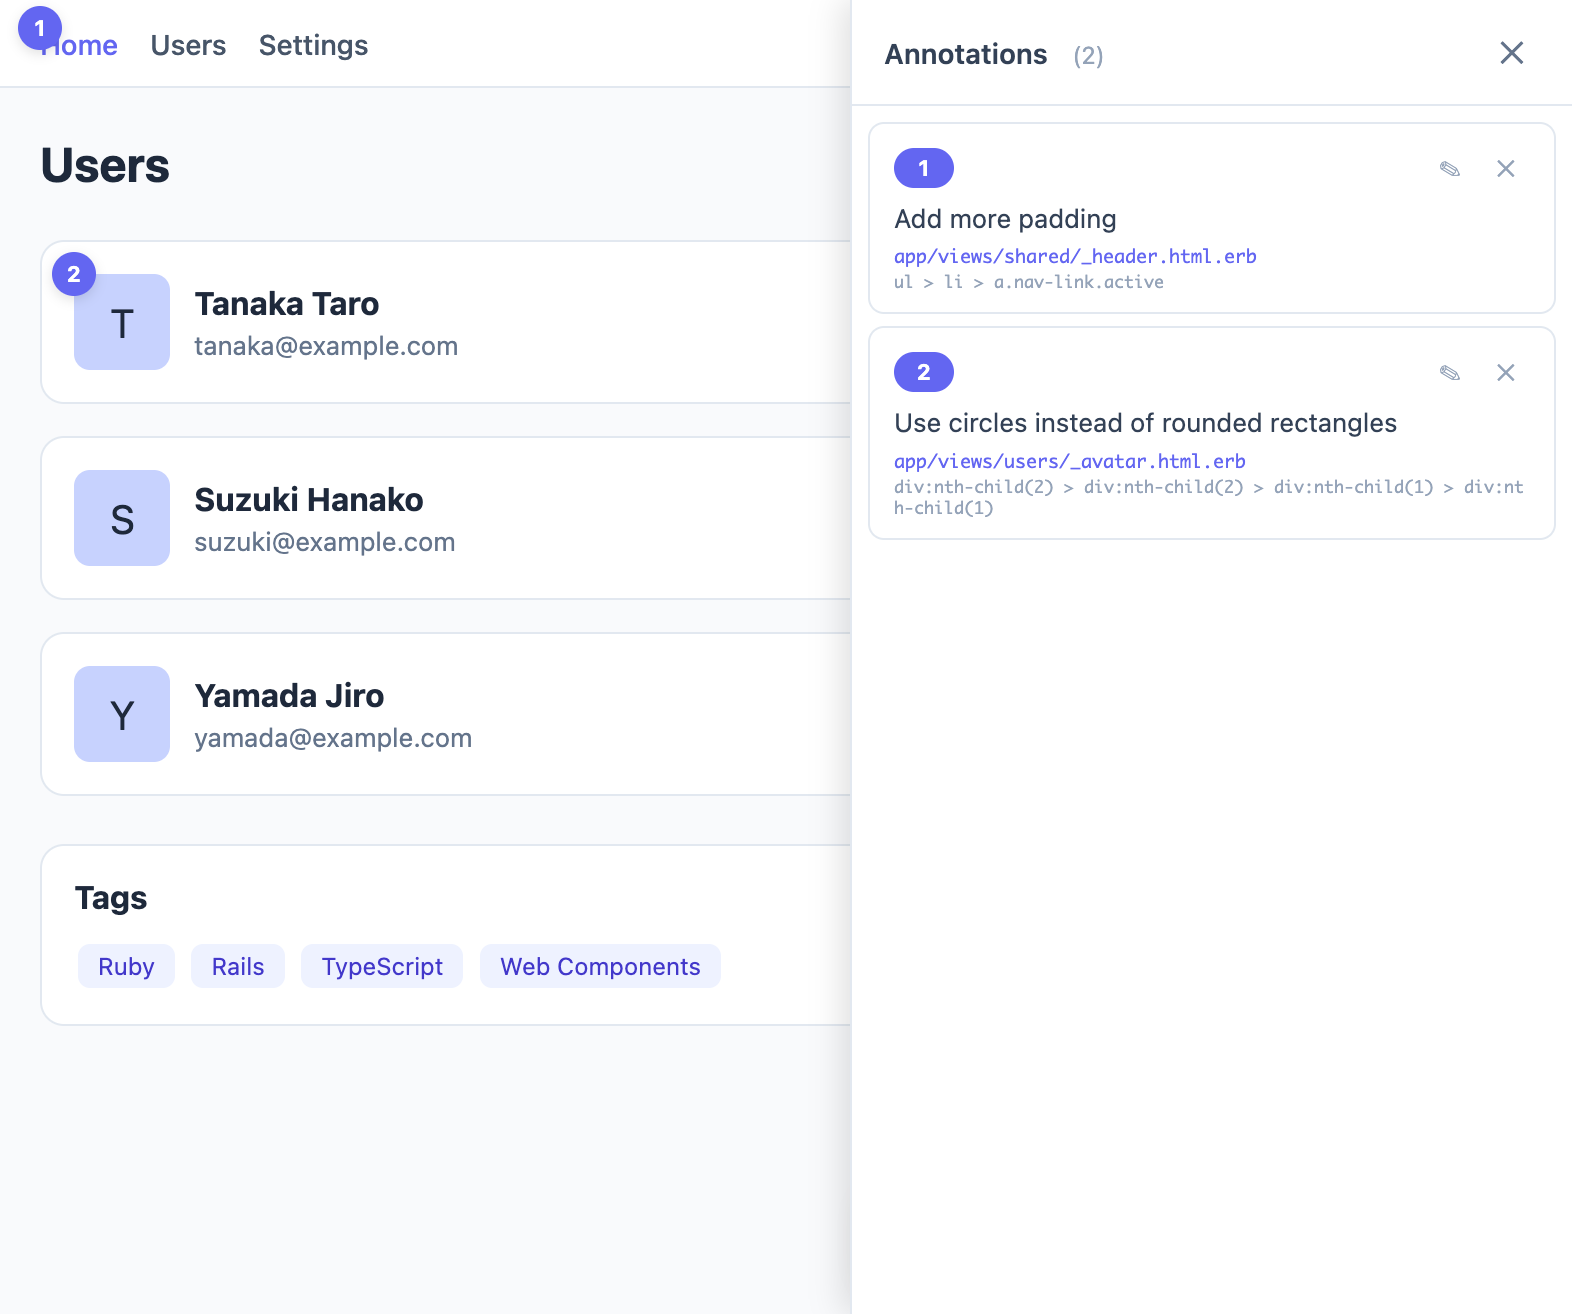
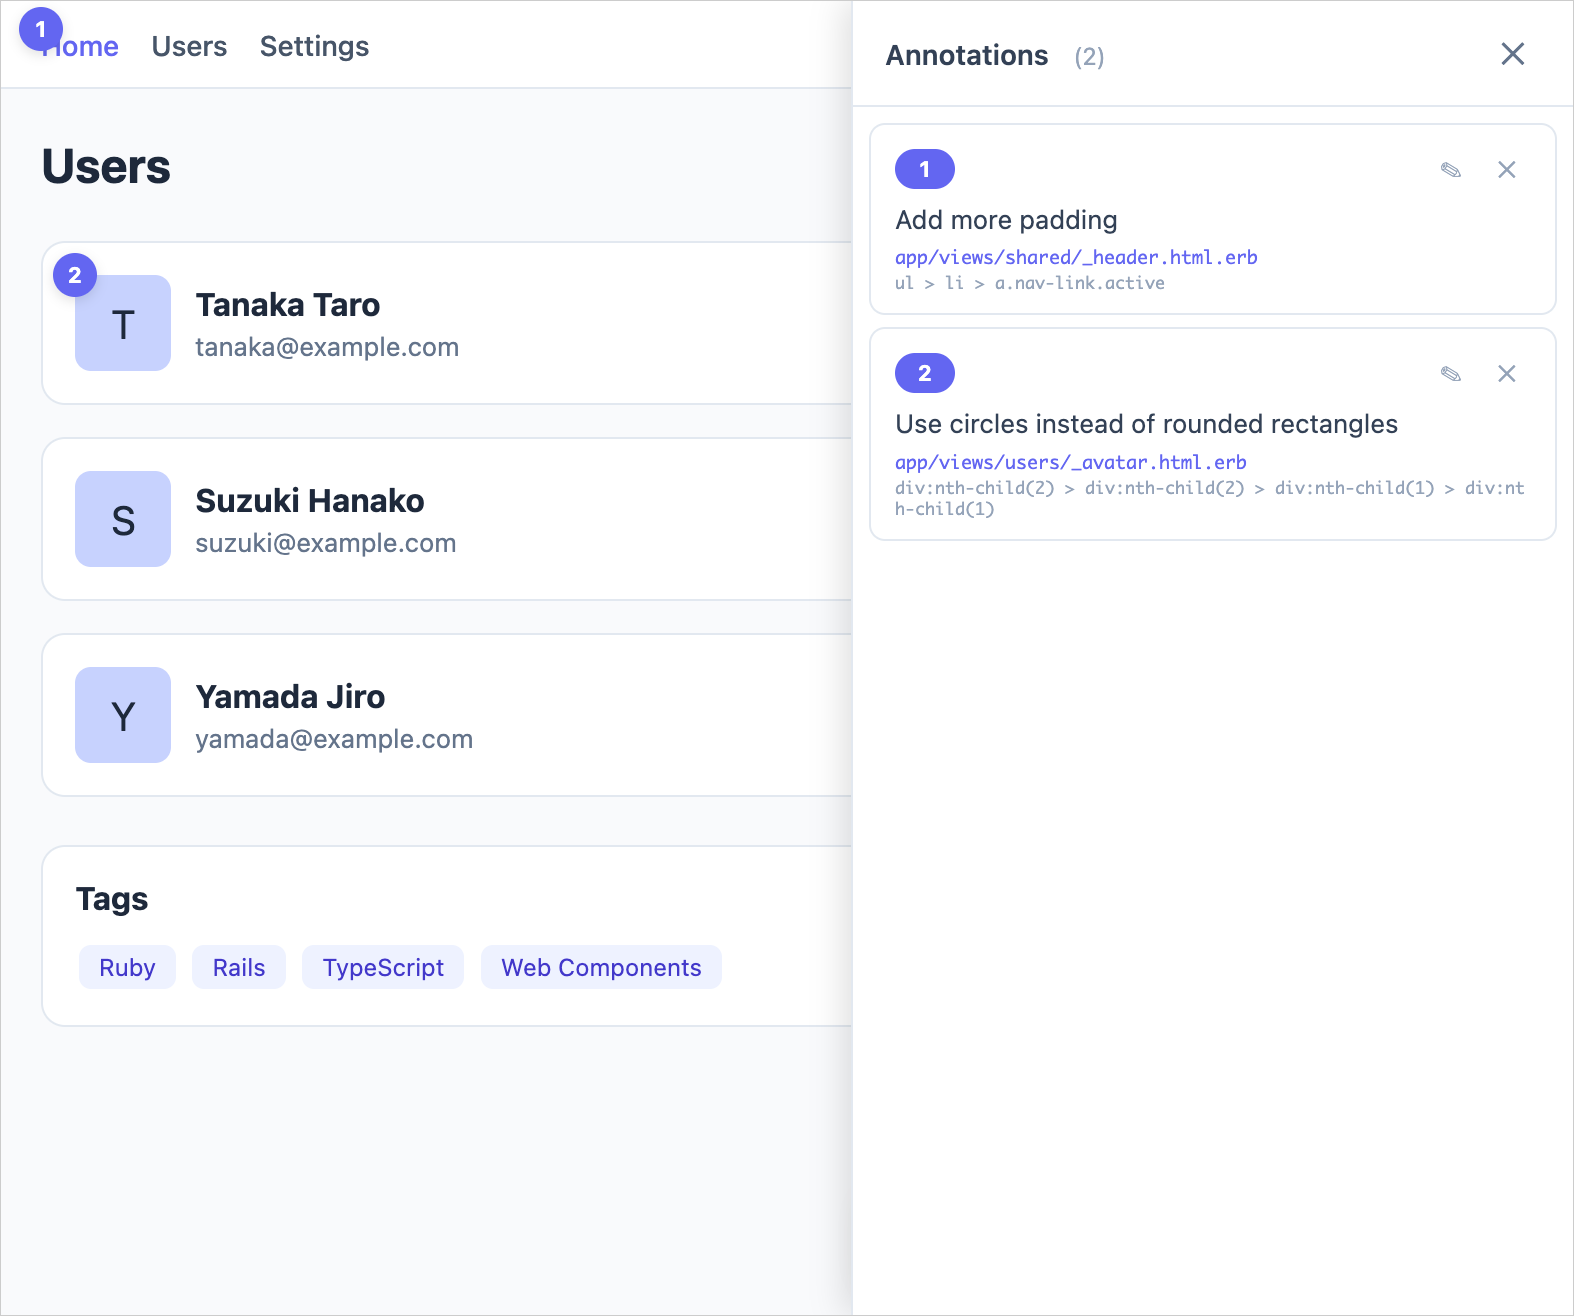
docs: READMEのスクリーンショット画像にwidth指定を追加しサイズを制限

diff --git a/README.md b/README.md
@@ -4,7 +4,7 @@ A visual UI annotation tool for Rails views. Click elements on the page to recor
 
 Leverages `annotate_rendered_view_with_filenames` HTML comments to automatically identify template files.
 
-![Annotating a Rails app with yubisashi-rails](docs/screenshot.png)
+<img src="docs/screenshot.png" alt="Annotating a Rails app with yubisashi-rails" width="600">
 
 ## Usage
 
